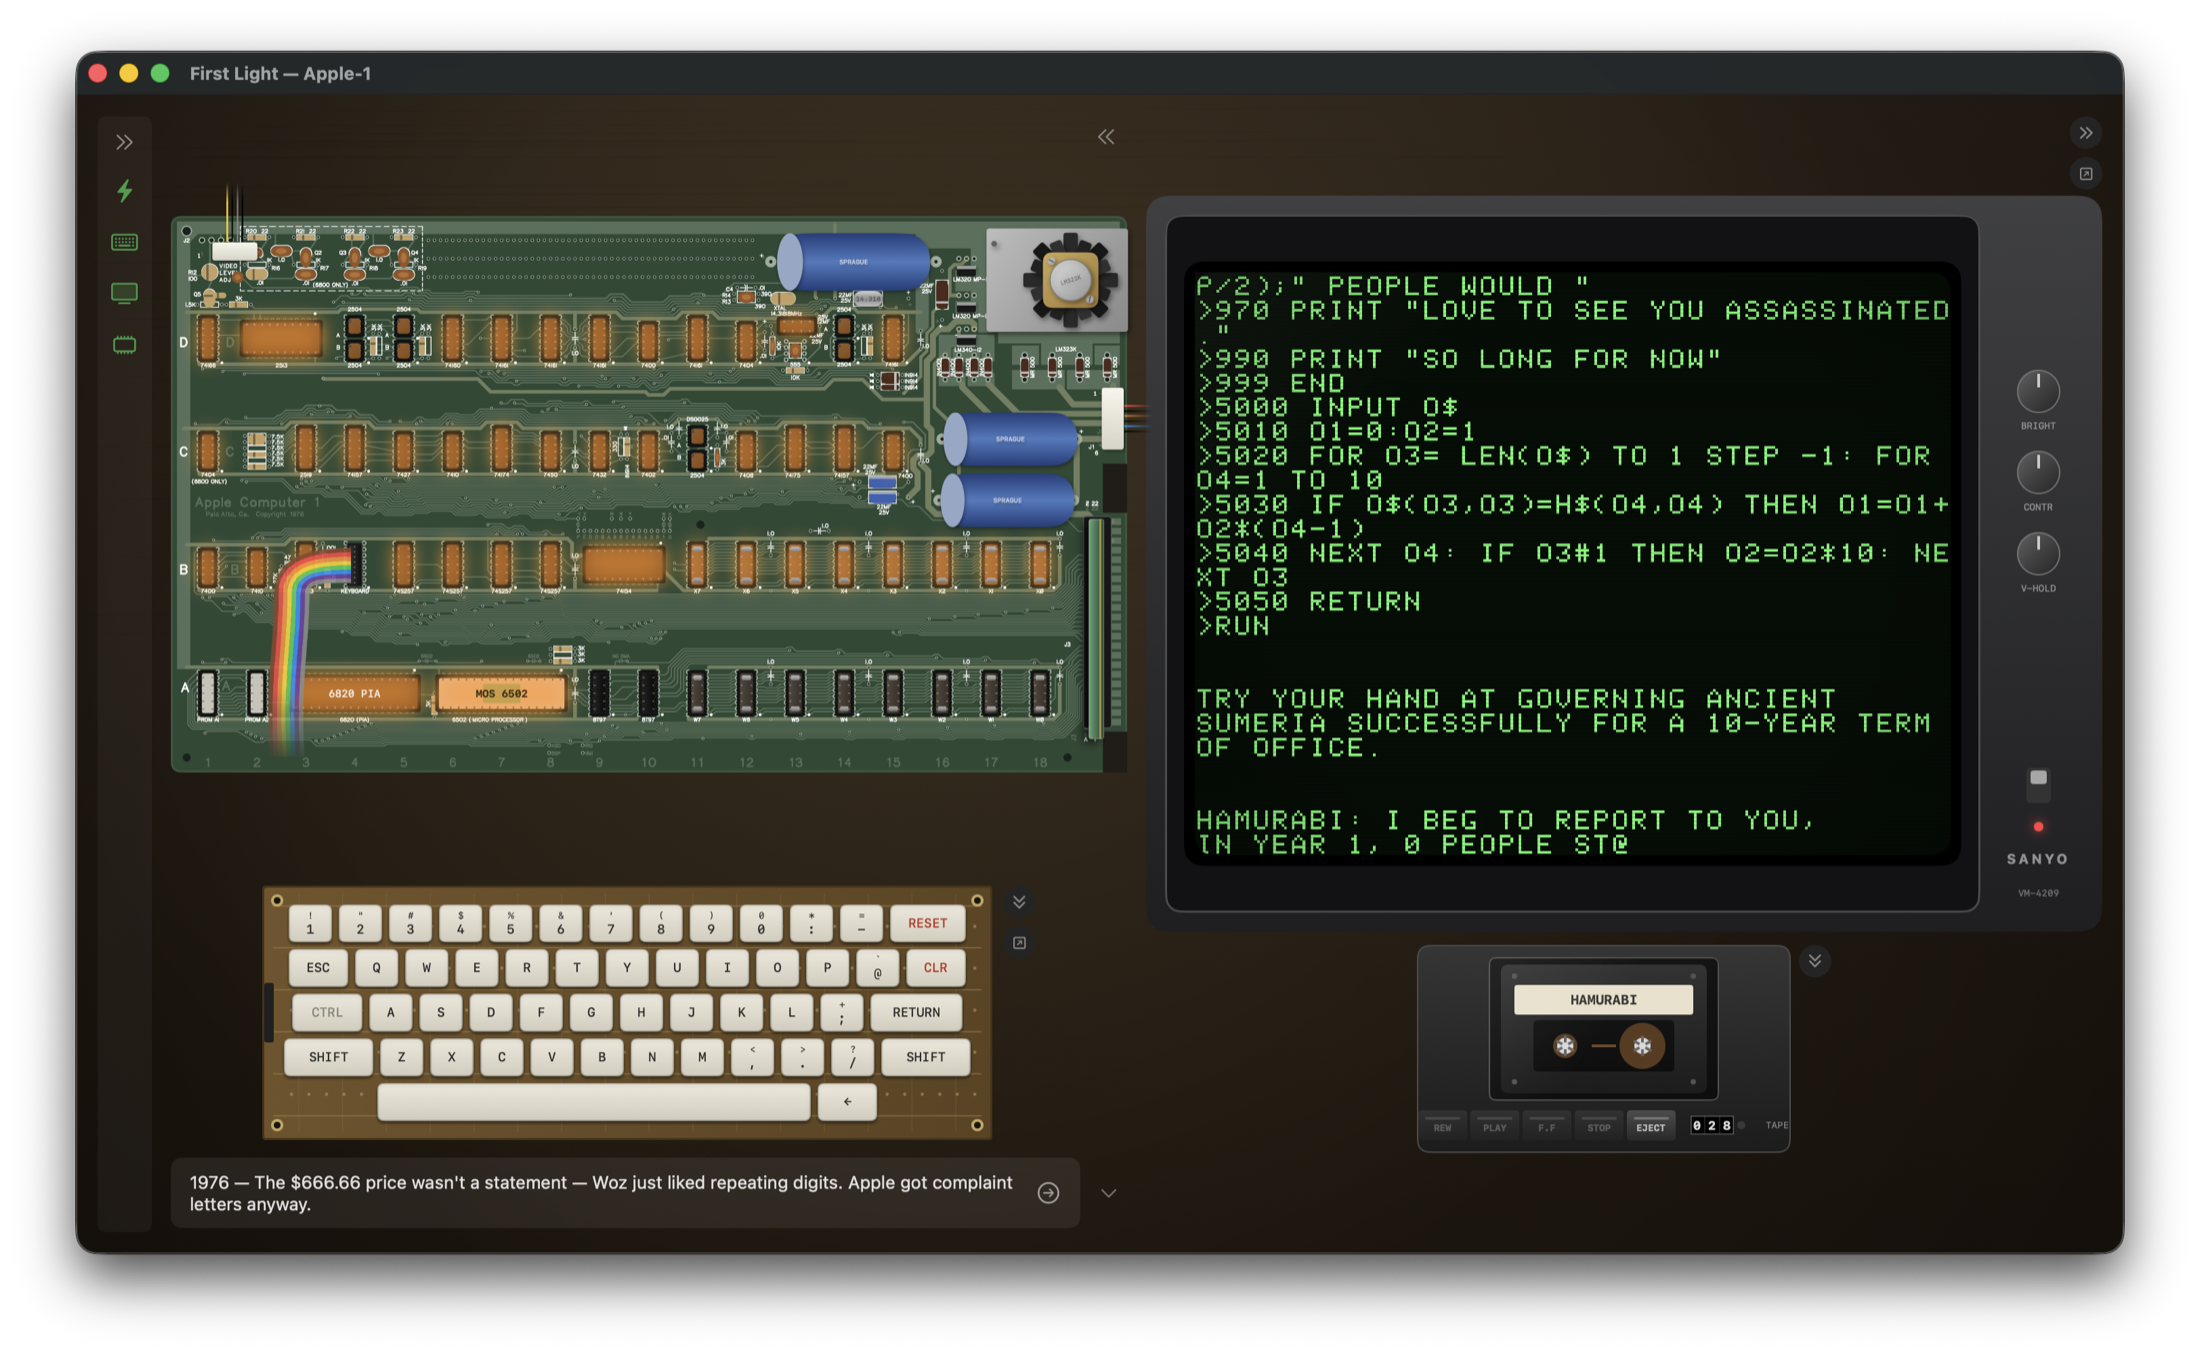
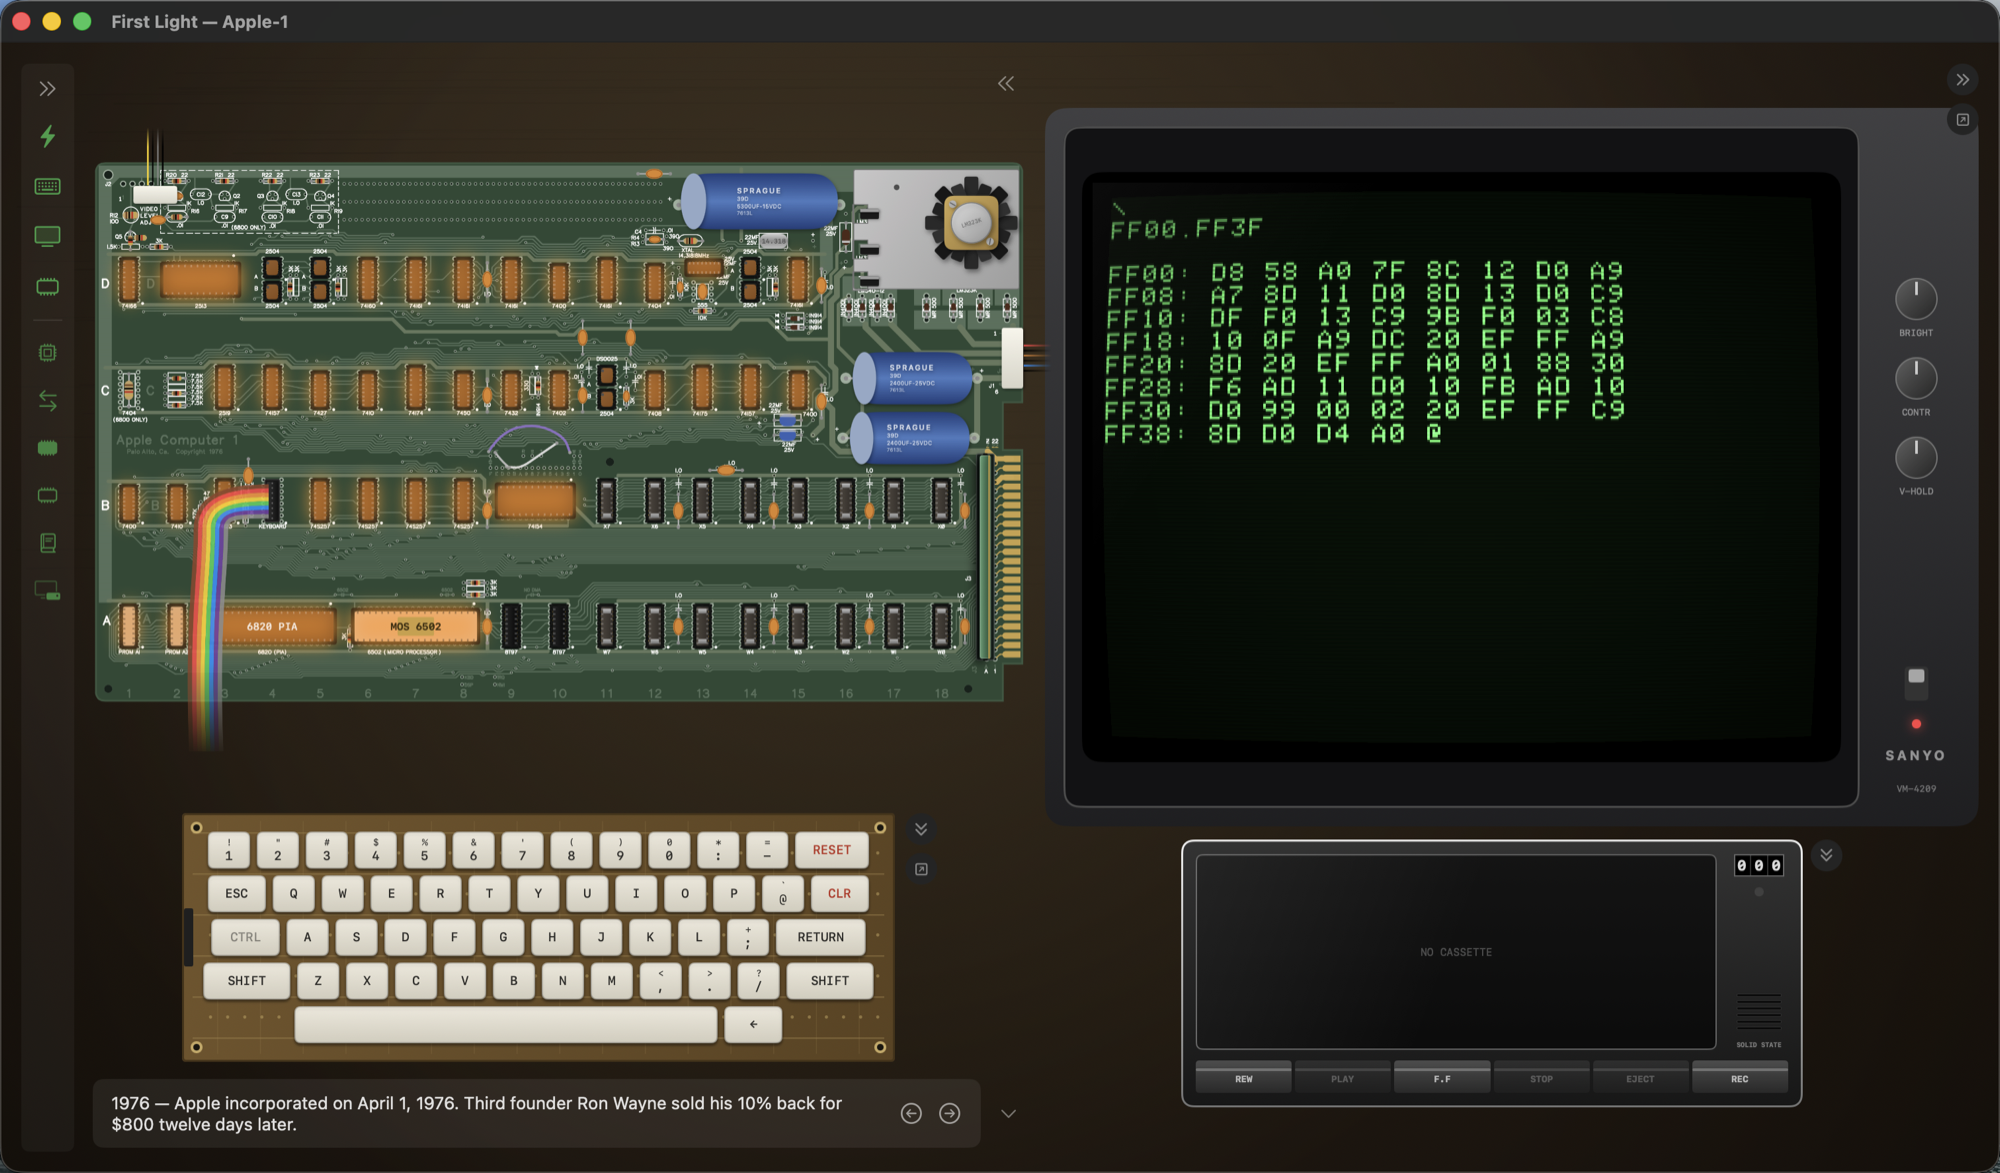
Repo: release-ready docs and layout
- Drop Software/ (unbundled duplicates from another repo; provenance now
  lives in NOTICE.md) and the dead 15-puzzle.bin duplicate.
- PLAN.md: mark it as the historical working design doc, drop the stale
  'do not push' gate, record the resolved legal gate.
- README: fresh hero screenshot (warm tube, wozmon PROM dump), Install
  section pointing at Releases, LICENSE/NOTICE links.
- build-app.sh --release: hardened-runtime Developer ID signing,
  notarytool submit + staple, zip packaging — activates when
  CODESIGN_ID/NOTARY_PROFILE are set; ad-hoc dev path unchanged.

diff --git a/docs/PLAN.md b/docs/PLAN.md
@@ -1,5 +1,9 @@
 # First Light — an Apple-1 for Apple's 50th
 
+> This is the project's working design document — the plan the app was built
+> against, kept as-is for the engineering history. For what the app *is*,
+> see the [README](../README.md).
+
 A native Mac app (Swift/SwiftUI, Metal later) that shows a living Apple-1:
 the board with every chip visible and explained, a CRT next to it, peripherals
 you drag onto the machine, and guided demos of what $666.66 bought in 1976.
@@ -162,17 +166,15 @@ F8. **Automated placement audit.** Finish Tools/audit (replicate the
    1976 story layer, free-play mode.
 7. **Later.** iPad target (needs Xcode), visionOS life-size board.
 
-## Software/ binaries (from alexander-akhmetov/apple1 repo)
-
-apple30.bin, lunar.bin, life.bin, ASMmchess.bin — load addresses TBD
-(check that repo's loader). Not yet bundled.
-
 ## Legal notes
+
+(Resolved for release — see NOTICE.md at the repo root for the full
+provenance record. Historical notes kept below.)
 
 - fake6502: public domain (credit Mike Chambers).
 - Woz Monitor + Integer BASIC: still Apple copyrights; tolerated and bundled
   by virtually all open-source Apple-1 emulators for decades. Bundled here
-  too; revisit before any public release.
+  too, with a provenance NOTICE and a takedown-compliance statement.
 - The corrupted circulating BASIC dump ($F2/$12 at two bytes) breaks input —
   we ship the verified-good dump (cross-checked against napple1).
 - 2513 font: render from datasheet bitmaps (not copyrightable glyph data).
@@ -181,7 +183,6 @@ apple30.bin, lunar.bin, life.bin, ASMmchess.bin — load addresses TBD
 
 - Tests: `./Scripts/test.sh` (adds Testing.framework paths for CLT)
 - App: `./Scripts/build-app.sh [--install]` → `dist/First Light.app`
-- DO NOT create a GitHub repo / push until mostly done (owner's request).
 
 ## Next 10 (planned 2026-06-10, post F1-F8)
 
@@ -308,6 +309,7 @@ swallow keystrokes (`ensure6502()` at every run/load entry + a shared
 warning is gone. Plus a cleanup sweep (dead views/methods, a duplicate info-bar
 block, historical fact corrections). Deferred backlog: FirstLight/6800 test
 coverage, `CRT.metallib` build regeneration, the `Apple1.current` global, the
-unbounded transcript, accessibility. Still open: the Apple-ROM legal gate before
-any public release (bundled Woz Monitor + Integer BASIC are Apple copyrights;
-safest path is ship-without-ROMs or ship-source-and-assemble + a provenance NOTICE).
+unbounded transcript, accessibility. The Apple-ROM legal gate was resolved for
+release (2026-07): ROMs stay bundled with a provenance NOTICE.md and a
+takedown-compliance statement; the app icon and in-app mark were replaced with
+original artwork (the six-stripe boot prompt); MIT LICENSE added for our code.

diff --git a/README.md b/README.md
@@ -19,6 +19,14 @@ homebrew — all machine-verified by `Scripts/verify-tapes.sh`. ⌘K opens
 a command palette that types 1976 syntax for you; ⌘/ is the quick
 reference; ⌘F is full-screen phosphor. See [docs/PLAN.md](docs/PLAN.md).
 
+![The bench: board, monitor, keyboard, and cassette deck](docs/screenshots/bench.png)
+
+## Install
+
+Download the latest notarized build from
+[Releases](https://github.com/d4rkwyng/first-light/releases) — or build it
+yourself below. Requires macOS 15.
+
 ## Build & test
 
 Works with Command Line Tools only (no Xcode required):
@@ -35,6 +43,10 @@ BASIC into RAM and starts it, ⌘R resets. Esc cancels a monitor line;
 Delete sends `_`, the Apple-1's rubout.
 
 ## Credits & legal
+
+First Light's own code is [MIT](LICENSE). Bundled historical material has
+its own owners and terms — the full provenance record is in
+[NOTICE.md](NOTICE.md). The short version:
 
 - 6502 core: [fake6502](http://rubbermallet.org/fake6502.c) v1.1 by Mike
   Chambers (public domain).